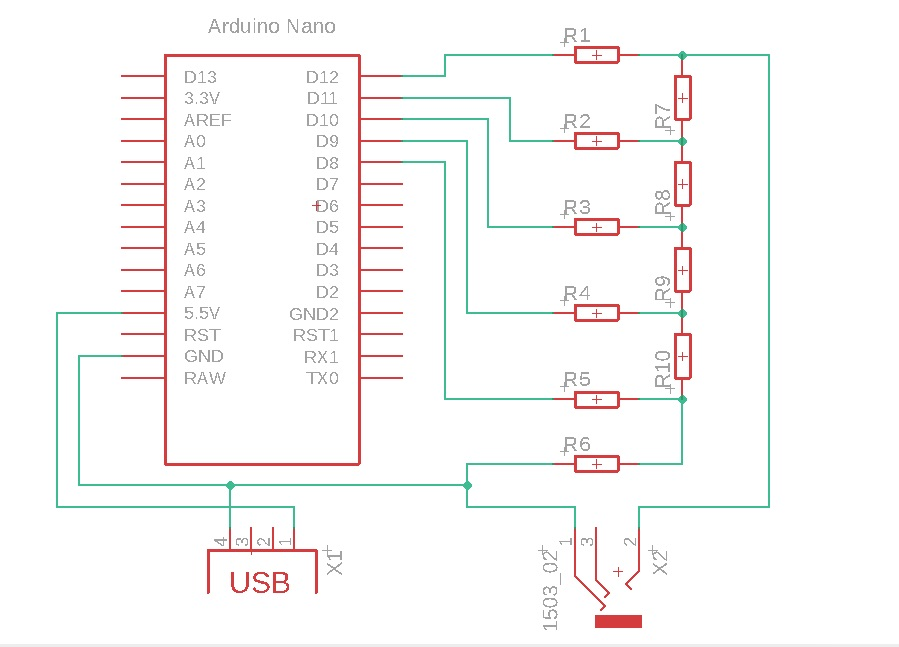
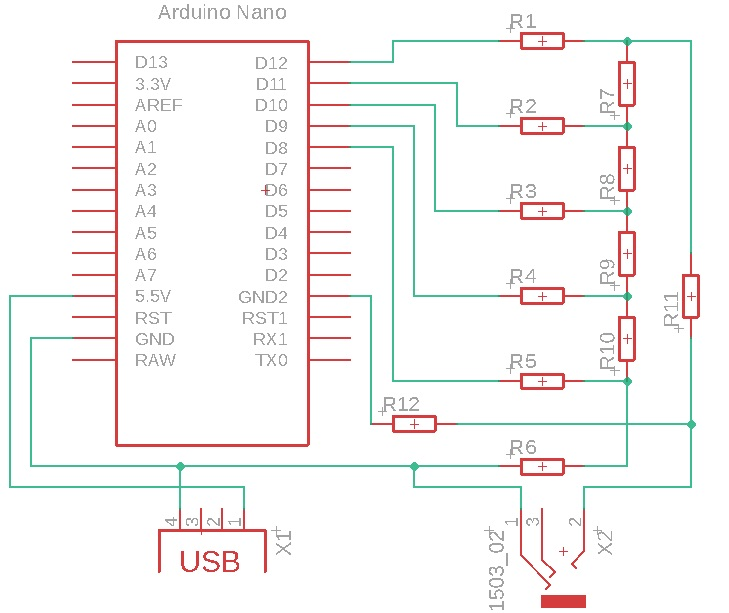
changes

diff --git a/README.md b/README.md
@@ -7,7 +7,9 @@ which is used as voltage dividers. So we have 31 different volumes/levels for th
 plus the option to mute it completely. 
 
 The resistors have to be selected depending on the desired output levels. In my setup I was
-using 56k for for R1 - R6 and 28k ( 2x56k parallel ) for R7 - R10. 
+using 56k for R1-R6 and 28k ( 2x56k parallel ) for R7-R10. 
+
+Fine adjustment of output level is done with R11 (56k) and R12 (10k).
 
 melbo @x-plane.org - 20210427
 
